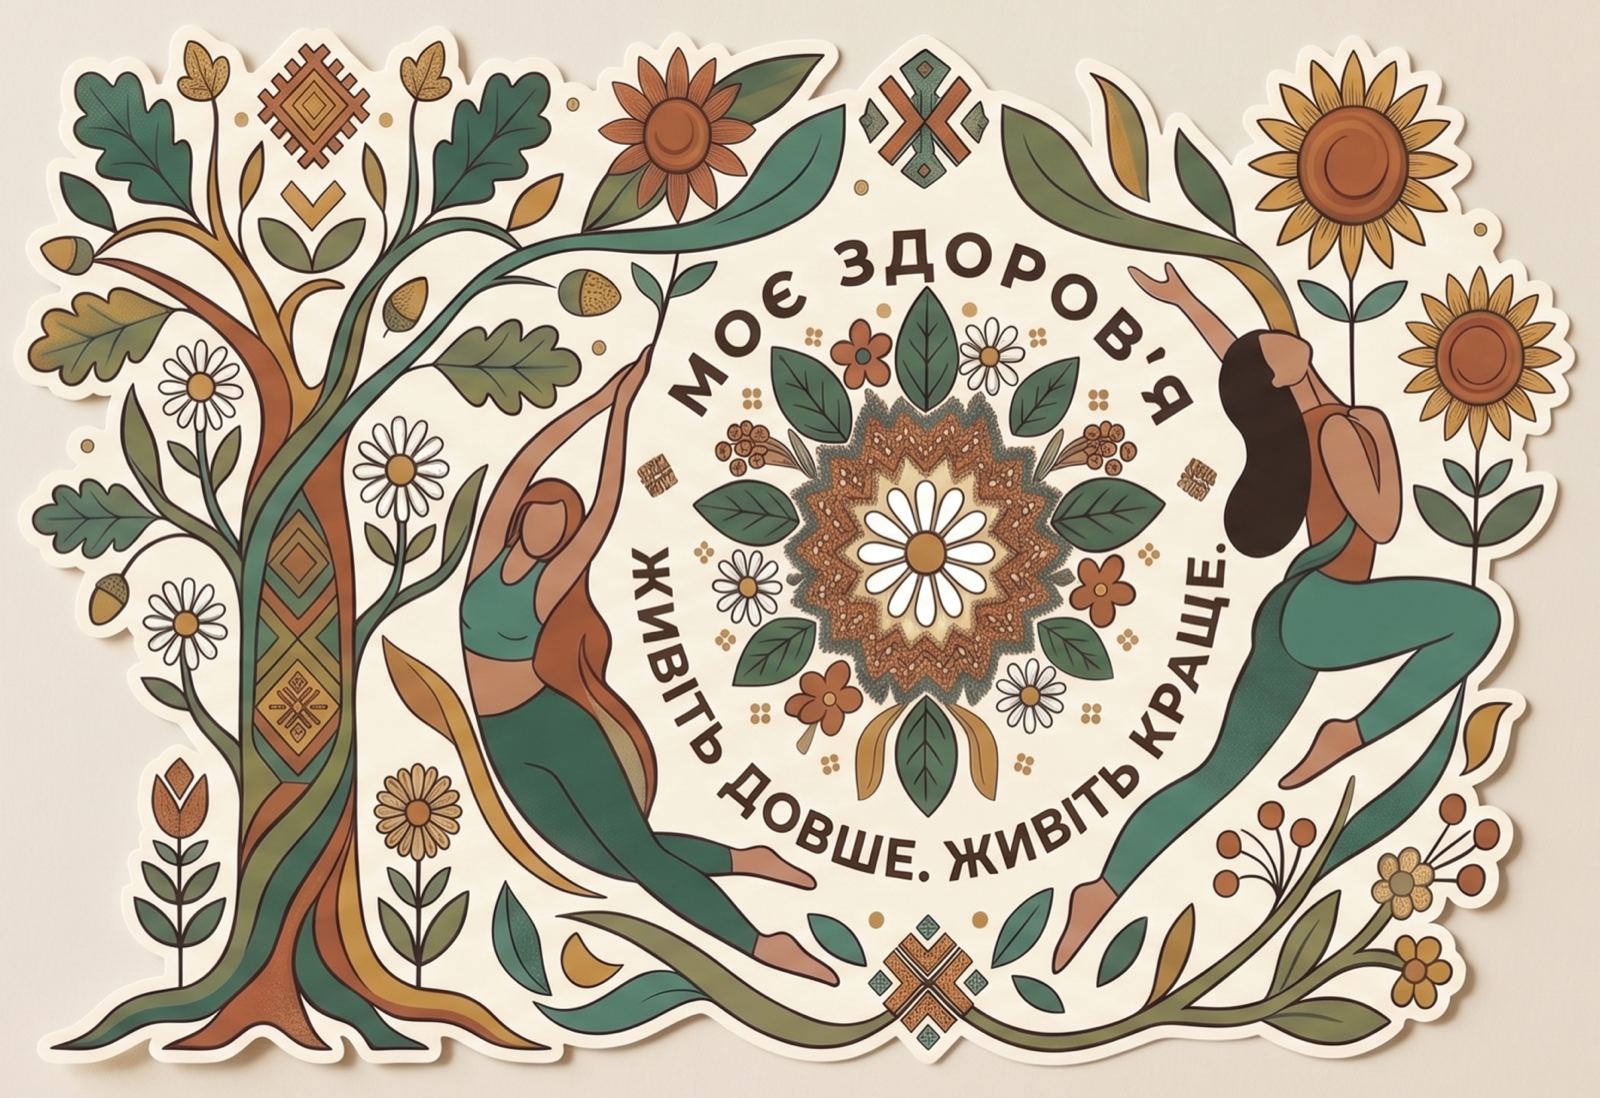
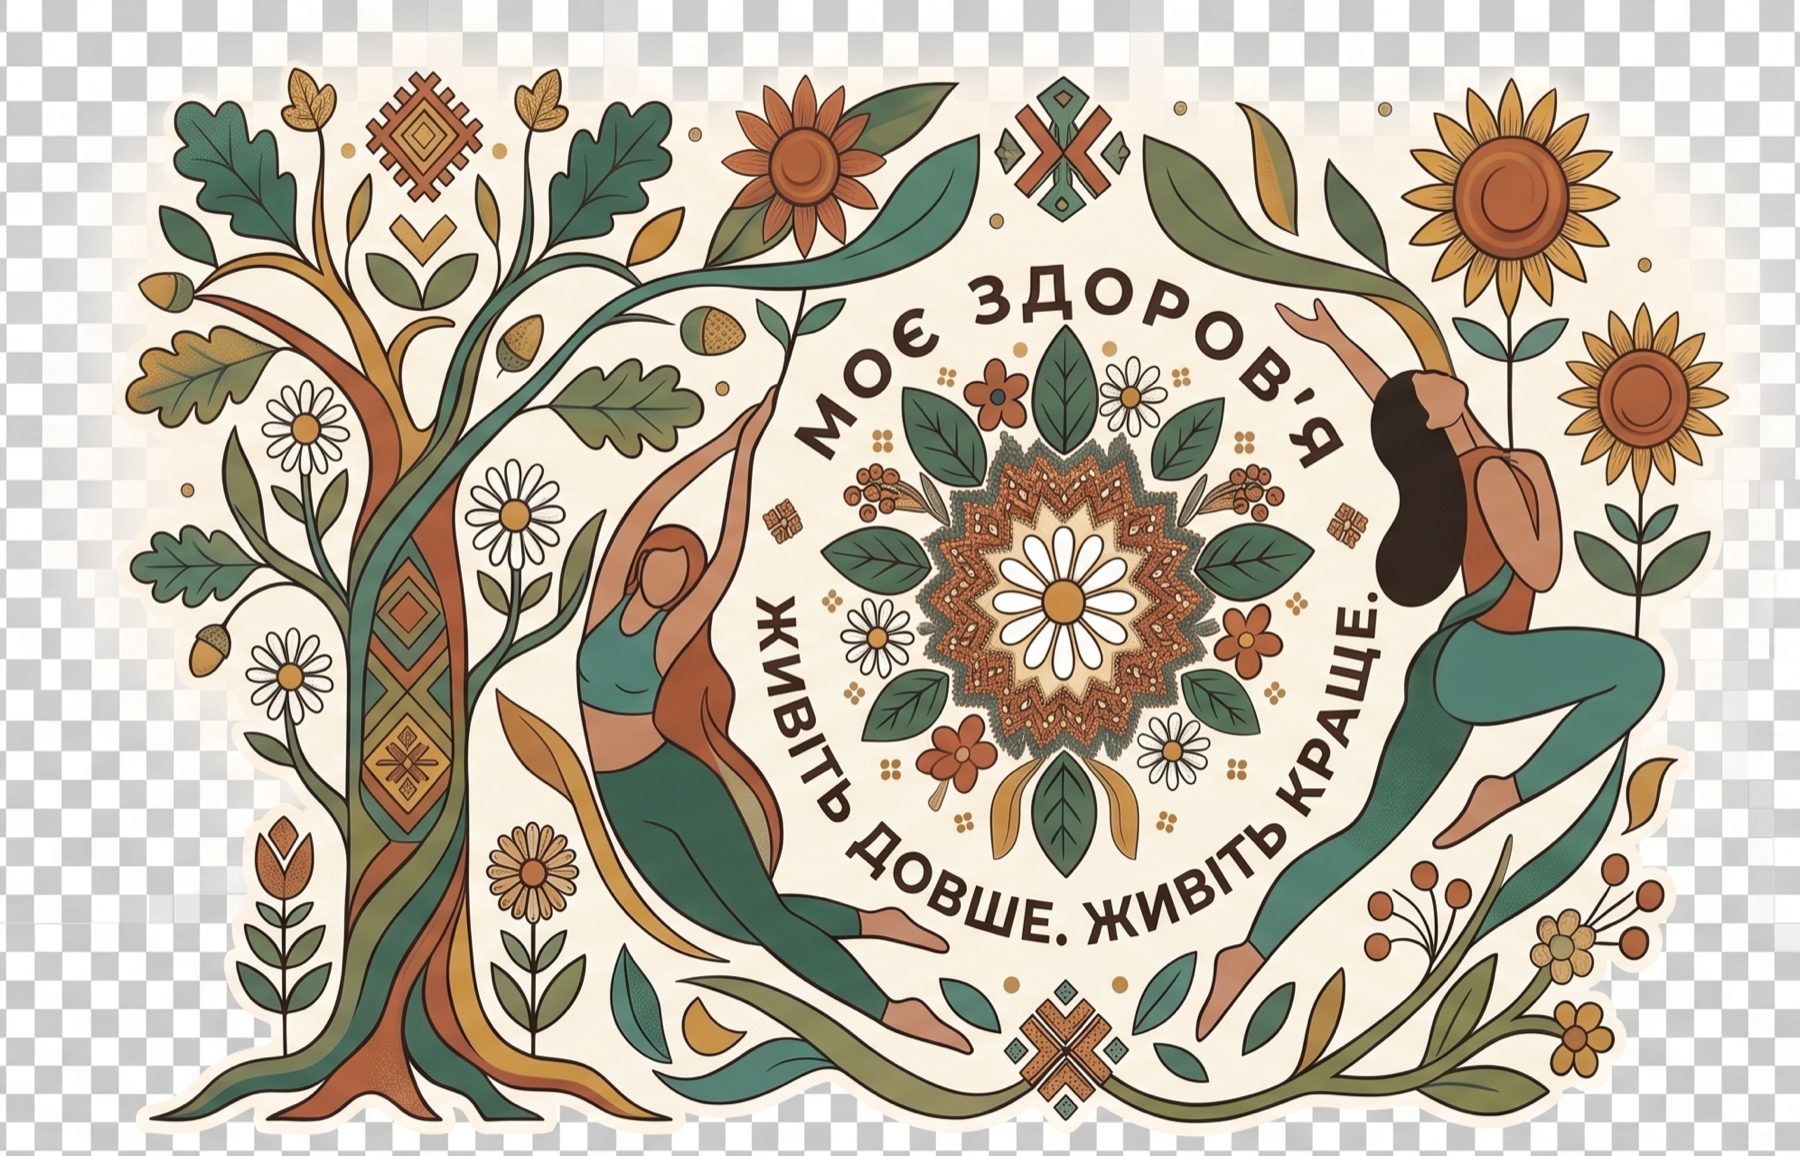
Use transparent-background illustration to remove the visible card seam
Swapped in avtenika_1.png (real alpha transparency) and dropped the
card background/shadow/crop so the sticker sits directly on the
page's own cream background with no mismatched edge.

diff --git a/index.html b/index.html
@@ -230,17 +230,14 @@
   }
   .hero-visual{
     position:relative;
-    aspect-ratio:1600/1098;
-    border-radius:28px;
-    box-shadow:var(--shadow);
-    overflow:hidden;
+    display:flex; align-items:center; justify-content:center;
     opacity:0; animation:pop 1s cubic-bezier(.2,.8,.2,1) 0.35s forwards;
   }
   @keyframes pop{
     from{opacity:0; transform:scale(0.9) rotate(-3deg);}
     to{opacity:1; transform:scale(1) rotate(0deg);}
   }
-  .hero-illustration{width:100%; height:100%; object-fit:cover; display:block;}
+  .hero-illustration{width:100%; height:auto; display:block;}
   @media (max-width:980px){
     .hero-visual-wrap{padding:0 20px; max-width:560px; margin:0 auto;}
   }
